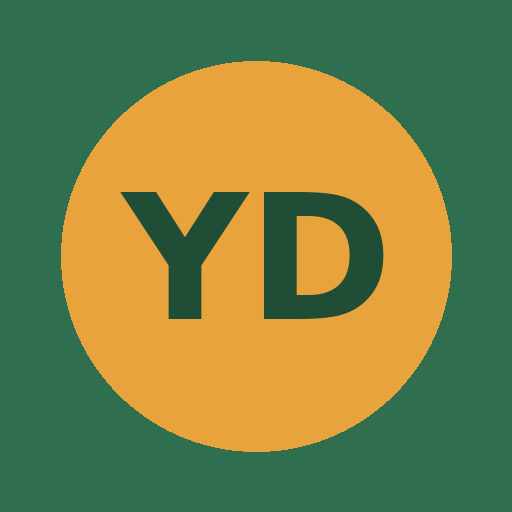
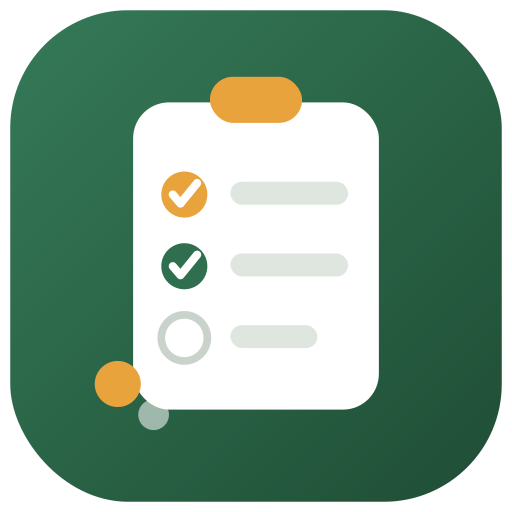
Add files via upload

diff --git a/style.css b/style.css
@@ -41,6 +41,21 @@ html, body {
   justify-content: space-between;
 }
 
+.topbar-left {
+  display: flex;
+  align-items: center;
+  gap: 10px;
+  min-width: 0;
+}
+
+.topbar-logo {
+  width: 34px;
+  height: 34px;
+  border-radius: 9px;
+  flex-shrink: 0;
+  display: block;
+}
+
 .topbar h1 {
   font-size: 18px;
   margin: 0;
@@ -244,6 +259,15 @@ textarea {
   justify-content: center;
   padding: 24px;
 }
+.login-logo-img {
+  width: 84px;
+  height: 84px;
+  border-radius: 20px;
+  display: block;
+  margin: 0 auto 16px;
+  box-shadow: 0 10px 24px rgba(31, 77, 53, 0.25);
+}
+
 .login-logo {
   text-align: center;
   font-size: 28px;

diff --git a/app.js b/app.js
@@ -123,6 +123,7 @@ async function renderLogin() {
 
   root.innerHTML = `
     <div class="login-wrap">
+      <img src="logo.svg" alt="Yap-Dostum" class="login-logo-img">
       <div class="login-logo">Yap<span>-</span>Dostum</div>
       <div class="login-tag">Haftalık checklist ve görev takip uygulaması</div>
       <div class="card">
@@ -152,6 +153,7 @@ async function renderLogin() {
 async function renderFirstSetup() {
   root.innerHTML = `
     <div class="login-wrap">
+      <img src="logo.svg" alt="Yap-Dostum" class="login-logo-img">
       <div class="login-logo">Yap<span>-</span>Dostum</div>
       <div class="login-tag">İlk kurulum — Admin hesabı oluştur</div>
       <div class="card">
@@ -194,9 +196,12 @@ async function renderFirstSetup() {
 function topbar(title, sub) {
   return `
     <div class="topbar">
-      <div>
-        <h1>${escapeHtml(title)}</h1>
-        ${sub ? `<div class="sub">${escapeHtml(sub)}</div>` : ""}
+      <div class="topbar-left">
+        <img src="logo.svg" alt="Yap-Dostum" class="topbar-logo">
+        <div>
+          <h1>${escapeHtml(title)}</h1>
+          ${sub ? `<div class="sub">${escapeHtml(sub)}</div>` : ""}
+        </div>
       </div>
       <button class="btn btn-ghost btn-sm" id="logout-btn">Çıkış</button>
     </div>